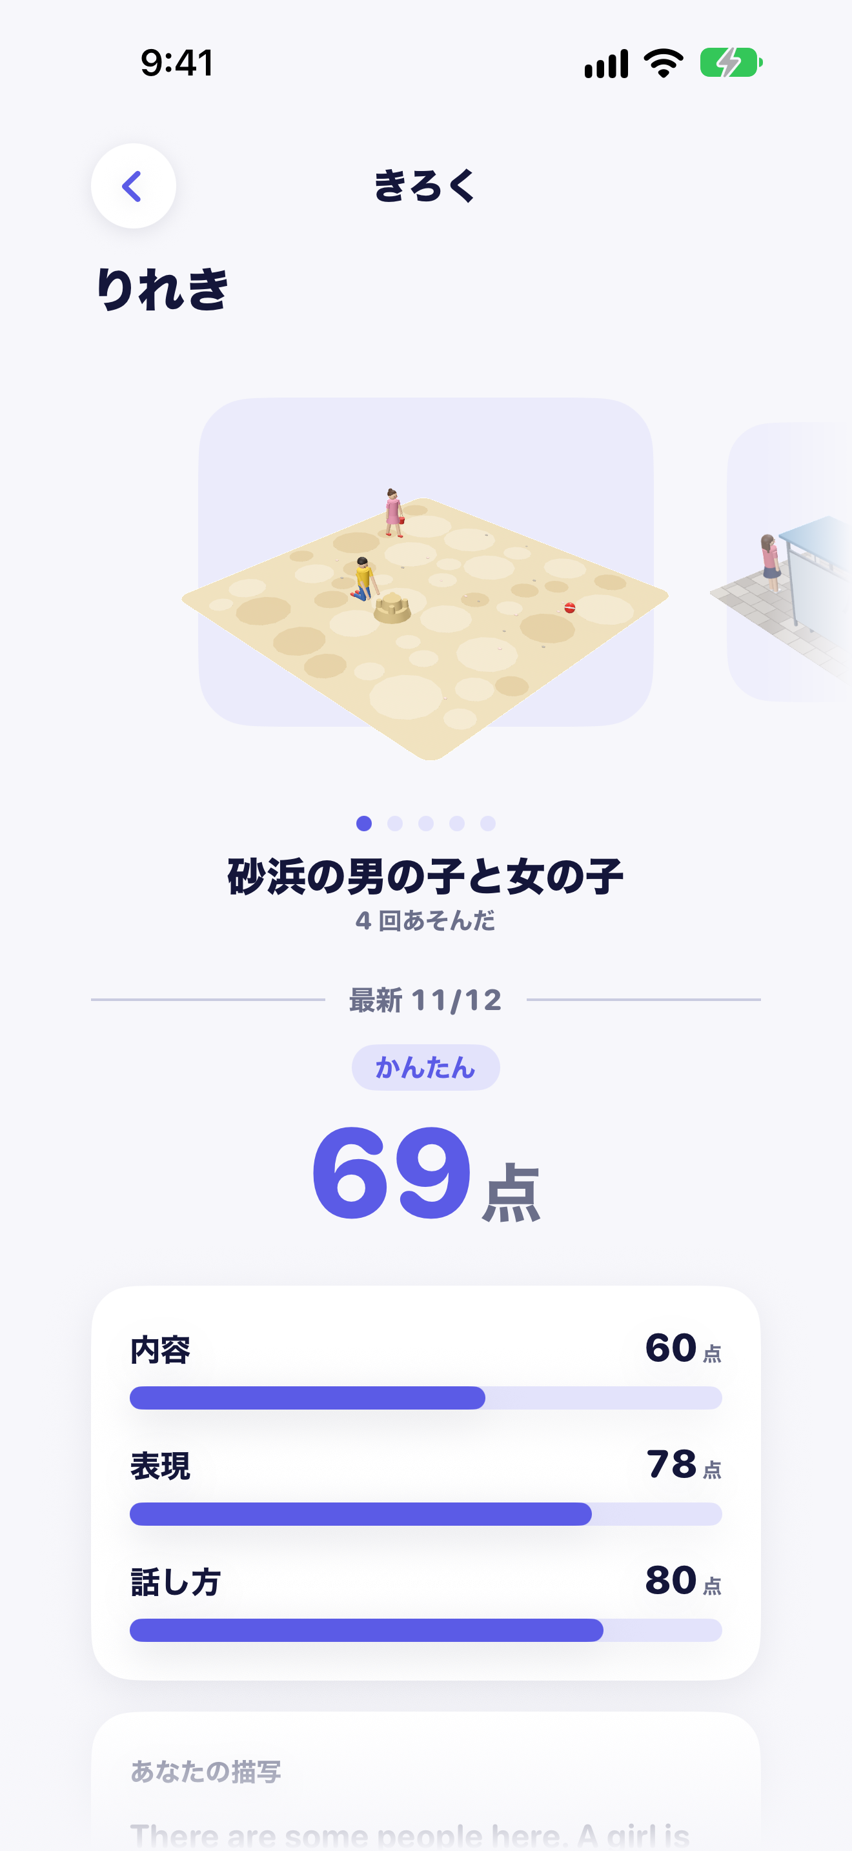
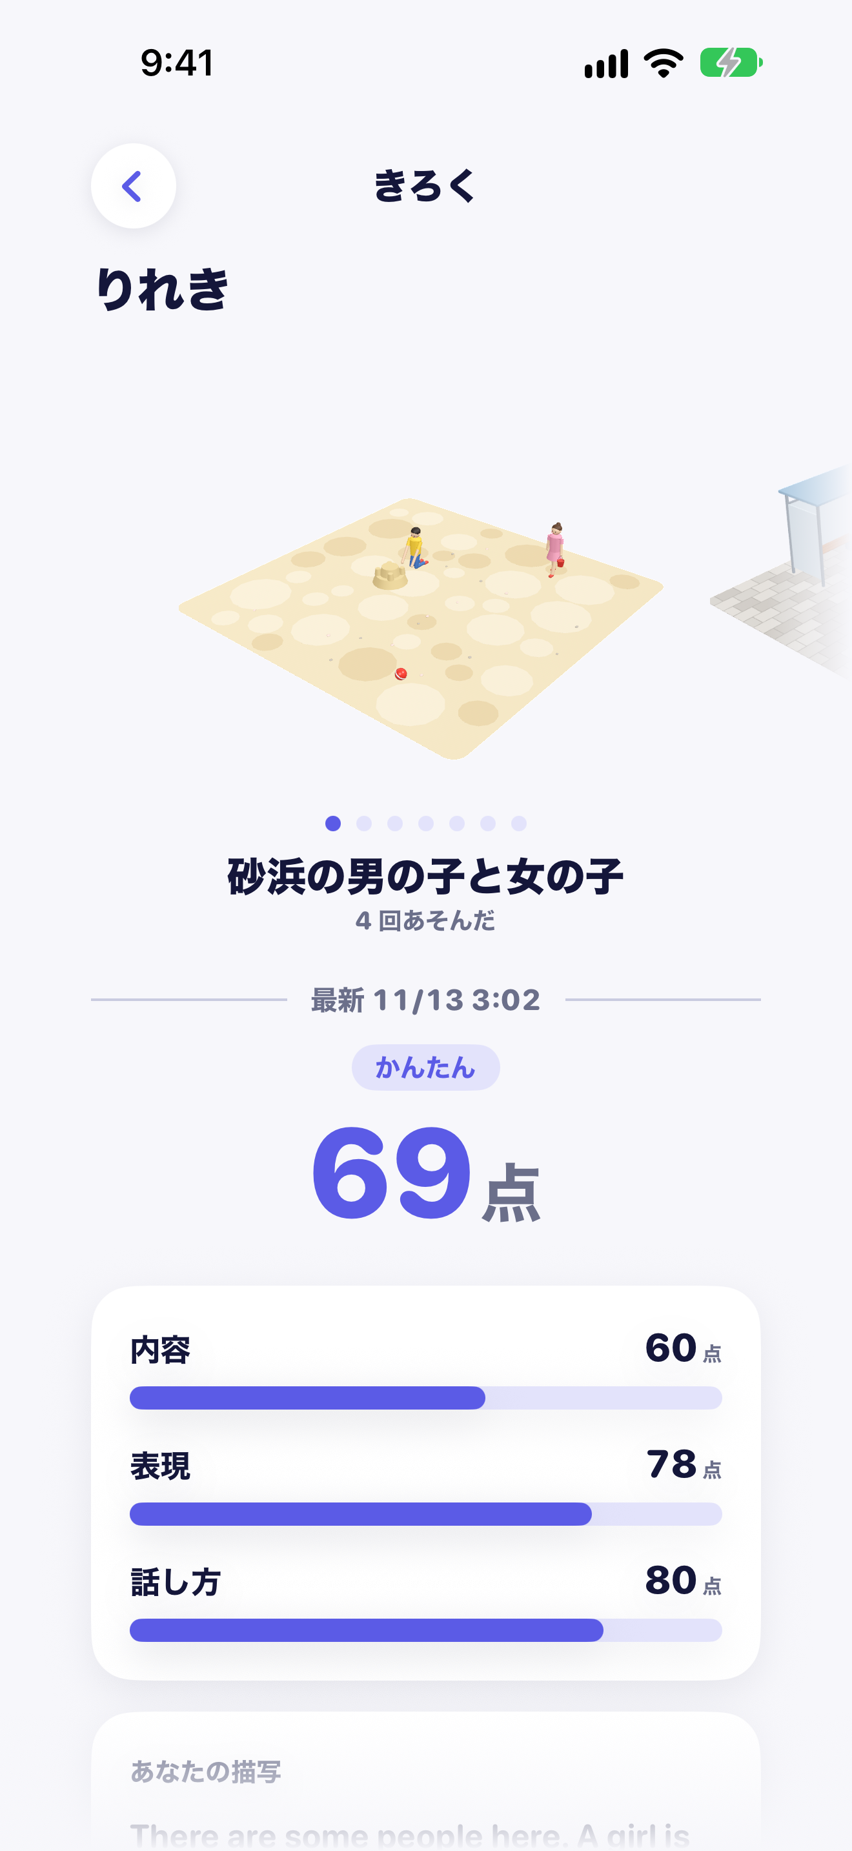
docs: きろくの 3D の後ろの印・区切りの時刻・設定の確かめの文を書く
- records.md: 塗りの板をやめ、印と名前を薄い灰色で置く。隣は印だけ。区切りに時刻。
  録音を鳴らす口は 1 つ
- settings.md: 確かめの文は録音の本数に合わせる。消している間は押せない
- 画面設計書の画像（ホーム・きろく）を撮り直す

diff --git a/docs/design/ui/screens/records.md b/docs/design/ui/screens/records.md
@@ -35,16 +35,17 @@ exits = [
 - 場面を横に並べる。真ん中に 1 つ大きく出し、左右に隣の場面が少しのぞく。端はフェードで消し、矢印は置かない。場面の並びは、最後に遊んだのが新しい順。
   - 場面は 3D で出す。ゆっくり回り続け、触って回せない。記録の中の配置から組む。
   - 3D を出すのは、選んでいる場面とその両隣（同時に 3 つまで）。それより離れた場面は、名前だけの板にする。
-  - 3D の下には、いつも名前の板を敷く。組み上がって描かれるまで数秒かかることがあり（シミュレータで 1〜4 秒、長いと十数秒）、その間も何も無い所を作らないため。
+  - 3D の後ろには、小さな立方体の印と場面の名前を、薄い灰色で置く。塗りの板は置かない。組み上がって描かれるまで数秒かかることがあり（シミュレータで 1〜4 秒、長いと十数秒）、その間も何も無い所を作らないため。描かれると、ジオラマの盤に隠れる。
+  - 薄くして並べる隣の場面では、名前を出さず印だけにする。隣は、まとめてから薄くする（3D の後ろから印や文字が透けないよう）。
   - どの場面を選ぶかは、横のスクロールが止まってから決める。速く送ったときに、通り過ぎる場面の 3D を作って捨てないため。
   - 読み上げ（VoiceOver）では横に送れないので、場面の名前の行の操作「次の場面」「前の場面」で替える。
   - 同じ場面かどうかは、場面の ID で見る。部屋がその場で作った場面は、毎回 ID が違うので、1 回ずつ別の場面になる。
 - 並びの下に、選んでいる場面の名前と「N 回あそんだ」を出す。下にスクロールしても、この行は上に残る。残った行には地の色と下の線を付け、下を流れる中身と重ならないようにする。
 - 下にスクロールして戻っても、横の並びは作り直さない（3D と横の位置がそのまま残る）。
 - その下に、選んでいる場面を遊んだ回の振り返りを、新しい順に縦に並べる。画面は移らず、下へスクロールすると続く。押す所は無い。
-  - 回ごとに、日付の区切り（「─── 最新 11/12 ───」「─── 11/11 ───」）を置く。
+  - 回ごとに、日付と時刻の区切り（「─── 最新 11/12 14:05 ───」「─── 11/12 13:25 ───」）を置く。同じ日に何回か遊んでも見分けられるよう、時刻も出す（24 時間）。
   - 中身は遊んだ直後の振り返り（[`review.md`](./review.md)）と同じ部品で、同じ並び（難易度・合計 → 3 つの軸の棒 → あなたの描写（下線と凡例）→ 場面のチェック → 場面と合わない描写 → 次の一つ → 見本の答え → 言い直してみよう → 話し方の一言）。順位は出さない（記録には自分の結果しか無い）。
-  - その回の録音が残っていれば、「あなたの描写」から聴ける。録音は、きろくを読み直すときに 1 度だけ読む。
+  - その回の録音が残っていれば、「あなたの描写」から聴ける。録音は、きろくを読み直すときに 1 度だけ読む。鳴らす口はきろくで 1 つを共有し、別の回を押したら前の回を止める（2 本同時に鳴らさない）。
   - 縦の流れの中には 3D を出さない（3D は横の並びの中だけ）。
   - 回の数が多い場面でも重くならないよう、回の振り返りの部分だけ遅延して作る（横の並びは遅延しない所に置いたまま）。
 - 一番下は、下に行くほど地の色に溶かして、続きがあることを示す。矢印や文言は置かない。

diff --git a/docs/design/ui/screens/settings.md b/docs/design/ui/screens/settings.md
@@ -27,7 +27,8 @@ exits = [
 
 - 「保存しているきろく」に、回数と録音の本数（例: 12 回・録音 12 本）を出す。「きろくと録音は、この iPhone の中だけに保存しています。」と添える。
 - 「きろくと録音をすべて消す」は、オレンジ（紫の補色。振り返りの「場面と合わない描写」と同じ色）の枠のボタンにする。消すものが無いときは押せない。読める記録が 0 件でも、読めなかったファイル（壊れた記録・知らない版の記録）が残っていれば押せる（確かめの文は「読めなかったきろくのファイルが、この iPhone から消えます」）。
-- 押すと、確かめを出す。「すべて消しますか？」「きろく N 回と録音が、この iPhone から消えます。元にもどせません。」と、「やめる」「消す」。「消す」はオレンジ。
+- 押すと、確かめを出す。「すべて消しますか？」「きろく N 回と録音 M 本が、この iPhone から消えます。元にもどせません。」と、「やめる」「消す」。「消す」はオレンジ。録音が 0 本なら「きろく N 回が…」にする。
+- 消している間は、ボタンを押せなくする。
 - 消すと、記録と録音をまとめて消す（読めなかったファイルも消す）。この画面の回数、ホームの回数、きろくの画面も 0 件になる。
 - 1 件ずつ消す操作は置かない。
 - プライバシーポリシーへのリンクは置いていない。アプリの中に、ポリシーの URL の定義がまだ無いため（置くなら、App Store に出している URL と同じものを 1 か所に定義してから足す）。
